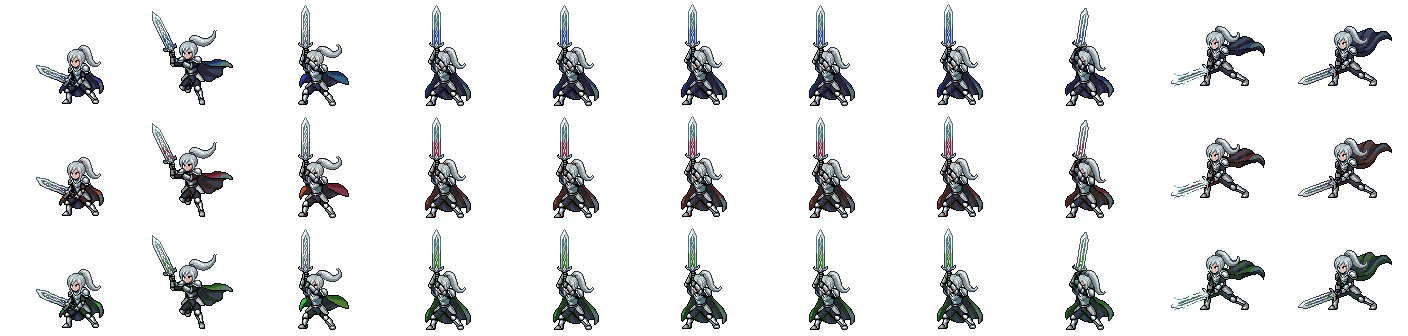
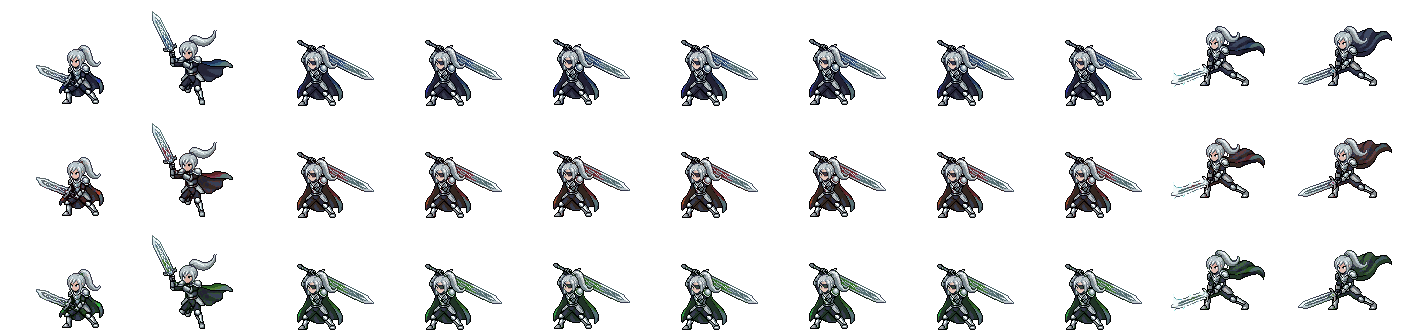
Earthshatter: greatsword wind-up pose in the air with the blade on fire (PixelLab), fully on screen
Claude-Session: https://claude.ai/code/session_01PAJQvS6MdJB9emcv35BH5f

diff --git a/public/js/scene.js b/public/js/scene.js
@@ -36,7 +36,10 @@ const PFX = {
   boom: FX_SHEET('meteor_impact.png', 192, 160, 4, 12, 14, 96, 142, false),
   geyser: FX_SHEET('fire_column.png', 40, 100, 4, 10, 12, 20, 96, false),
   blade: FX_SHEET('flame_blade.png', 58, 156, 4, 8, 12, 16, 52, true),   // anchored on the sword tip (made round the knight's hold frame)
-  vortex: FX_SHEET('fire_vortex.png', 85, 85, 1, 1, 1, 42.5, 42.5, true)   // one image, spun in code (Earthshatter's dive)
+  vortex: FX_SHEET('fire_vortex.png', 85, 85, 1, 1, 1, 42.5, 42.5, true),   // one image, spun in code (Earthshatter's dive)
+  // the burning greatsword in Earthshatter's wind-up pose, one per knight, anchored on the feet (made round each wind-up frame)
+  gsf: FX_SHEET('knight_greatsword_fire.png', 97, 103, 4, 8, 12, 45, 94, true),
+  gsfF: FX_SHEET('knight_f_greatsword_fire.png', 93, 78, 4, 8, 12, 42, 73, true)
 };
 const PIXEL_FX = (() => { try { return new URLSearchParams(location.search).get('vfx') !== 'code'; } catch (e) { return true; } })();
 const STATUS_ABBR = { burn: 'Burn', poison: 'Poison', weak: 'Weak', vuln: 'Vulnerable', chill: 'Chilled', freeze: 'Frozen', str: 'Strength', taunt: 'Taunt',
@@ -1014,9 +1017,9 @@ export class BattleScene {
     // where he lands: on the nearest enemy (the one furthest right)
     const near = ens.length ? ens.reduce((a, e) => (e.x > a.x ? e : a)) : null;
     const land = near ? { x: near.x + 4, y: near.y + 1 } : { x: A.x - 120, y: A.y };
-    // the peak sits on a 45 degree line up from the enemy, as high as the screen allows (the spinning fireball round his
-    // body has to stay on screen): 50-100px above it. He runs up to a launch spot and leaps to it at 70 degrees.
-    const TOPROOM = 62, k70 = 1 / Math.tan(70 * Math.PI / 180);
+    // the peak sits on a 45 degree line up from the enemy, as high as the screen allows (the burning greatsword over his
+    // shoulder has to stay on screen): 50-100px above it. He runs up to a launch spot and leaps to it at 70 degrees.
+    const TOPROOM = 86, k70 = 1 / Math.tan(70 * Math.PI / 180);   // the wind-up pose and its flames reach ~82px above the feet
     const drop = Math.max(50, Math.min(100, land.y - TOPROOM));
     const peak = { x: land.x + drop, y: land.y - drop };
     const rise = Math.max(40, A.y - peak.y);
@@ -1087,6 +1090,8 @@ export class BattleScene {
         n.drawImage(PFX.vortex.img, -42.5, -42.5); n.restore();
       }
       else if (m.kind === 'fblade' && age < m.hold) {   // the blade on fire while he holds it up (not once he starts to spin)
+        const A = m.follow, girl = String(A.skin || '').endsWith(':f');
+        if (A.cls === 'knight') { n.globalAlpha = Math.min(1, age / 160); frame(girl ? PFX.gsfF : PFX.gsf, age, 1, A.x + A.ox, A.y + A.oy); n.globalAlpha = 1; continue; }
         const tip = this._tipAt(m.follow); if (!tip) continue;
         // the fire's base (30px below its anchor) sits on the crossguard, m.len px below the tip
         n.globalAlpha = Math.min(1, age / 160); frame(PFX.blade, age, 1, tip.x, tip.y + (m.len - 30)); n.globalAlpha = 1;

diff --git a/tools/assemble_quake.py b/tools/assemble_quake.py
@@ -1,20 +1,26 @@
 """Assembles the knights' Earthshatter into tools/art-src/atk/<sheet>_quake_src.png from the Champion's Combo frames.
 
-The combo (tools/assemble_combo.py) already has every pose the move needs, so no new PixelLab art:
-  crouch (combo 0)  ->  sword swinging up as he leaps (22, 23)  ->  sword straight up, held while the flame aura
-  charges (25-29)  ->  the spin (30, rotated in code while he dives at the enemy)  ->  the low downward-strike finish (36, 37).
+Most poses come from the Champion's Combo (tools/assemble_combo.py):
+  crouch (combo 0)  ->  sword swinging up as he leaps (22)  ->  the greatsword wind-up, held while the blade burns
+  ('wind': <sheet>_wind.png, made by PixelLab edit_image from the combo's sword-up frame: two-handed grip, hilt up by the
+  head, blade angled down behind the back)  ->  the spin (the wind-up, rotated in code while he dives at the enemy)
+  ->  the low downward-strike finish (combo 36, 37).
 Run: python3 tools/assemble_quake.py
 """
 import os
 from PIL import Image
 
-PICK = [0, 22, 23, 25, 26, 27, 28, 29, 30, 36, 37]   # combo frame numbers, in play order
+PICK = [0, 22, 'wind', 'wind', 'wind+', 'wind', 'wind+', 'wind', 'wind', 36, 37]   # combo frame numbers or keyframes, in play order
 
 if __name__ == '__main__':
     here = os.path.dirname(os.path.abspath(__file__))
     for sheet in ['knight', 'knight_f']:
         src = Image.open(os.path.join(here, 'art-src', 'atk', '%s_combo_src.png' % sheet)).convert('RGBA')
         strip = Image.new('RGBA', (128 * len(PICK), 112))
-        for i, k in enumerate(PICK): strip.alpha_composite(src.crop((k * 128, 0, (k + 1) * 128, 112)), (i * 128, 0))
+        wind = Image.open(os.path.join(here, 'art-src', 'atk', '%s_wind.png' % sheet)).convert('RGBA')
+        up1 = Image.new('RGBA', (128, 112)); up1.alpha_composite(wind, (0, -1))   # 'wind+': lifted 1px (a held, trembling charge)
+        for i, k in enumerate(PICK):
+            fr = wind if k == 'wind' else up1 if k == 'wind+' else src.crop((k * 128, 0, (k + 1) * 128, 112))
+            strip.alpha_composite(fr, (i * 128, 0))
         strip.save(os.path.join(here, 'art-src', 'atk', '%s_quake_src.png' % sheet))
         print('wrote', sheet, len(PICK), 'frames')

diff --git a/README.md b/README.md
@@ -172,9 +172,9 @@ Hero frames are 84×76 with the feet at (46, 72), facing left. Enemy frame sizes
 
 **Mage Meteor.** Its own 19-frame move (`anims.meteor`, 4.6 s, both mages): she floats up off the floor on a ring of light, holding the flame in her palm (orange for her, blue for him). She thrusts it out across her body at the enemies (it flares and throws embers their way), holds it there, then crushes it in her outstretched fist: embers squeeze out between her fingers with a puff of smoke, and she holds the fist a moment while light leaks from it. She opens her hand on a tiny spark, which sits on her palm for a moment and then shoots up and out of the top of the screen; She turns her back on the enemies, staff in one hand pointed at the ground (a swish of her cloak). Then the sky turns red, a shadow and a burning ring mark the middle of the enemies, and one giant meteor (a burning rock about 144 px across, more than twice a hero's height, with glowing cracks, a white-hot front and a long fiery tail, shedding embers and smoke) streaks in slowly from the top right behind her (about a second) and lands. The impact: a dome of fire, a tall flash, two shockwaves over the floor, cracks, rubble, sparks and smoke, and fire left burning on the floor for a moment and a half. Every enemy takes the hit and its burn. She turns back, floats down and the flame relights in her hand (`_meteorAnim` / `drawMeteors` in `scene.js`). The frames are keyframes made with `edit_image` (float; the flame held out at the enemy; that hand as a fist, then open; turned away with the staff pointed down), stitched by `tools/assemble_meteor.py`. PixelLab would not swing the flame arm across her body, so that arm was painted over by hand and `edit_image` then redrew it in the sprite's style; the turned-away pose is the float frame mirrored and re-posed. PixelLab's pinned in-betweens for this character kept painting big spell effects of their own (fire blasts, swooshes), so the move cuts between keyframes; the rise and descent are moved in code. `build_attack.py` marks `pointAt`, `crushAt`, `openAt`, `sparkAt`, `turnAt`, `downAt` and `hit`, plus where the flame hand is from each frame on (`hands`, so the flame glow, embers and spark follow it) and the flame colour.
 
-**Knight Earthshatter.** Its own 11-frame move (`anims.quake`, 2.1 s, both knights), built from Champion's Combo frames by `tools/assemble_quake.py`: he runs up and leaps at 70 degrees, the sword held up and bursting into flame as he rises (PixelLab flaming blade, see below), to a peak placed on a 45 degree line up from the nearest enemy, 50-100 px above it (as high as the screen allows). From there he dives straight down that 45 degree line onto the enemy inside a spinning ball of fire (a PixelLab fire vortex spun in code; the sprite tumbles inside it), and lands in the low downward-strike pose. Fire bursts where he lands, rings of fire race out over the floor, cracks and rubble fly, and columns of fire erupt from the ground in a wave across the whole enemy side (a big one under every enemy), leaving the floor burning. Every enemy takes the hit and Weak (`_quakeAnim` in `scene.js`). On landscape screens (laptops, iPads; the scene is 256 px tall) the raised sword and its flames go above the top edge at the peak; on portrait phones there is room for all of it. `build_attack.py` marks `jumpAt`, `holdAt`, `spinAt` and `hit`.
+**Knight Earthshatter.** Its own 11-frame move (`anims.quake`, 2.1 s, both knights), built from Champion's Combo frames by `tools/assemble_quake.py`: he runs up and leaps at 70 degrees and, as he rises, winds up like a greatsword fighter: both hands on the hilt up by his head, the blade angled down behind his back and burning (the wind-up pose is a PixelLab `edit_image` keyframe, `tools/art-src/atk/<sheet>_wind.png`; the fire is a PixelLab effect made round each knight's wind-up). The peak sits on a 45 degree line up from the nearest enemy, 50-100 px above it, as high as the screen allows while keeping the burning sword in view. From there he dives straight down that 45 degree line onto the enemy inside a spinning ball of fire (a PixelLab fire vortex spun in code; the sprite tumbles inside it), and lands in the low downward-strike pose. Fire bursts where he lands, rings of fire race out over the floor, cracks and rubble fly, and columns of fire erupt from the ground in a wave across the whole enemy side (a big one under every enemy), leaving the floor burning. Every enemy takes the hit and Weak (`_quakeAnim` in `scene.js`). `build_attack.py` marks `jumpAt`, `holdAt`, `spinAt` and `hit`.
 
-**Pixel-art effects.** The Meteor's rock and explosion and Earthshatter's flaming blade and fire columns are PixelLab effect sprites (`create_vfx`; sheets in `public/art/fx/`: `meteor_fly.png` 160×160 × 8 looping, drawn at 2×; `meteor_impact.png` 192×160 × 12, at 2× when the enemies are spread out; `fire_column.png` 40×100 × 10; `flame_blade.png` 58×156 × 8 looping, made by `create_vfx` round the knight's sword-up frame and with the knight cut out again, drawn on the sword tip as he rises, so it fits both knights; `fire_vortex.png` 85×85, one `create_image_pro` image spun in code round the diving knight at 2×, about 170 px across; the flaming blade's base sits on the crossguard, `blade` px below the tip). They're drawn crisp on the pixel layer by `drawPixelFx`; the lighting, embers, cracks and darkening around them are still drawn in code. Add `?vfx=code` to the page address to see the older code-drawn shapes instead.
+**Pixel-art effects.** The Meteor's rock and explosion and Earthshatter's flaming blade and fire columns are PixelLab effect sprites (`create_vfx`; sheets in `public/art/fx/`: `meteor_fly.png` 160×160 × 8 looping, drawn at 2×; `meteor_impact.png` 192×160 × 12, at 2× when the enemies are spread out; `fire_column.png` 40×100 × 10; `knight_greatsword_fire.png` / `knight_f_greatsword_fire.png` (97×103 / 93×78 × 8 looping, made by `create_vfx` round each knight's wind-up frame with the knight cut out again, drawn on the feet); `flame_blade.png` (the older vertical blade fire, still used for any other hero); `fire_vortex.png` 85×85, one `create_image_pro` image spun in code round the diving knight at 2×, about 170 px across; the flaming blade's base sits on the crossguard, `blade` px below the tip). They're drawn crisp on the pixel layer by `drawPixelFx`; the lighting, embers, cracks and darkening around them are still drawn in code. Add `?vfx=code` to the page address to see the older code-drawn shapes instead.
 
 **Legendary skills darken the background** for the whole move: the background dims at 0.84 (the old charge dimming was 0.42 over everything), while the fighters and the effects stay at full brightness; the room's lights, light shafts and top shading dim with it, so a hero leaping high isn't washed out (`darkFor` / `DARK_A` in `scene.js`).
 
